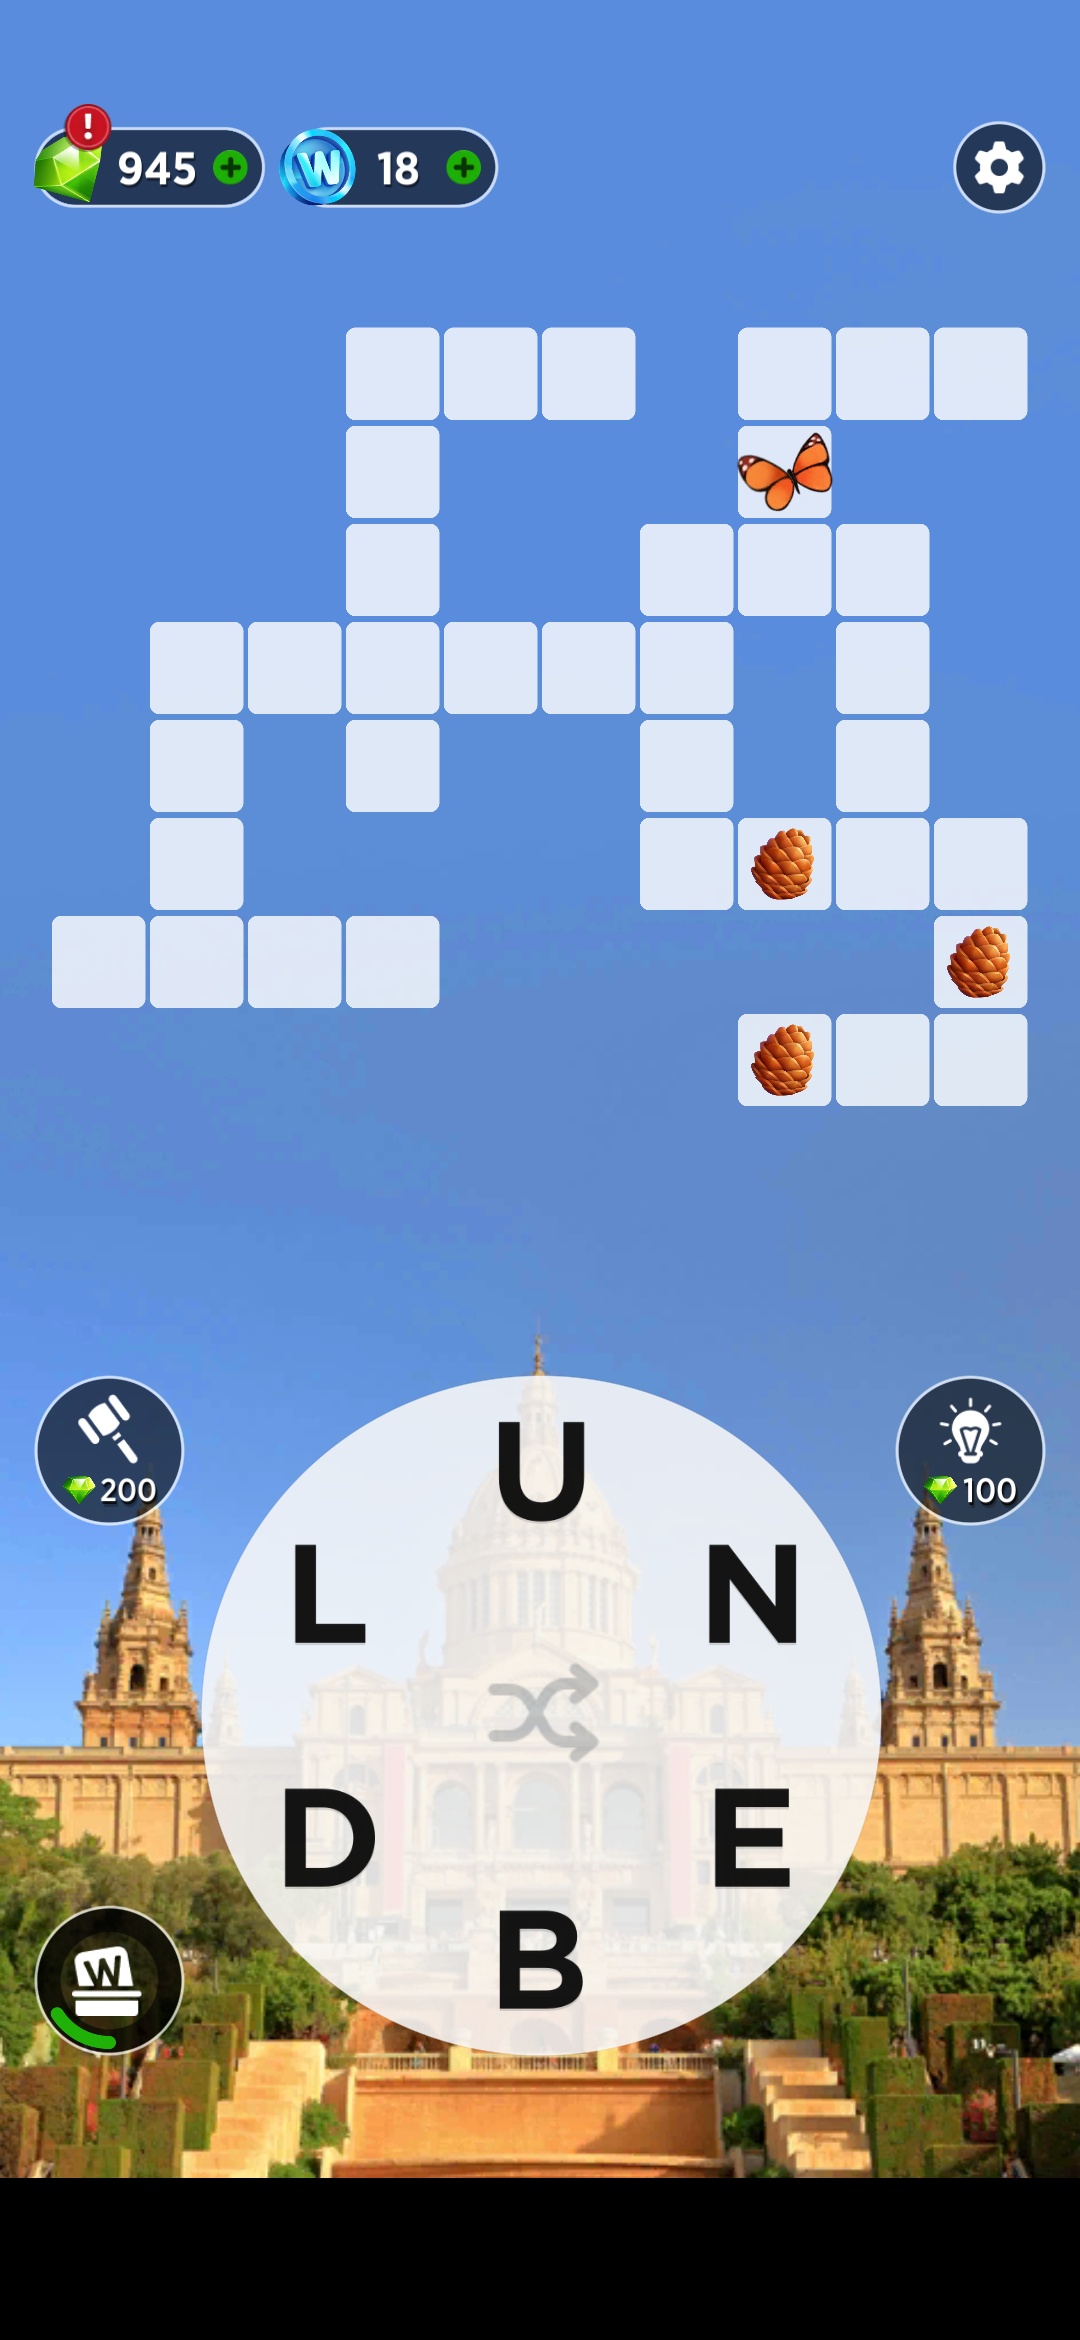
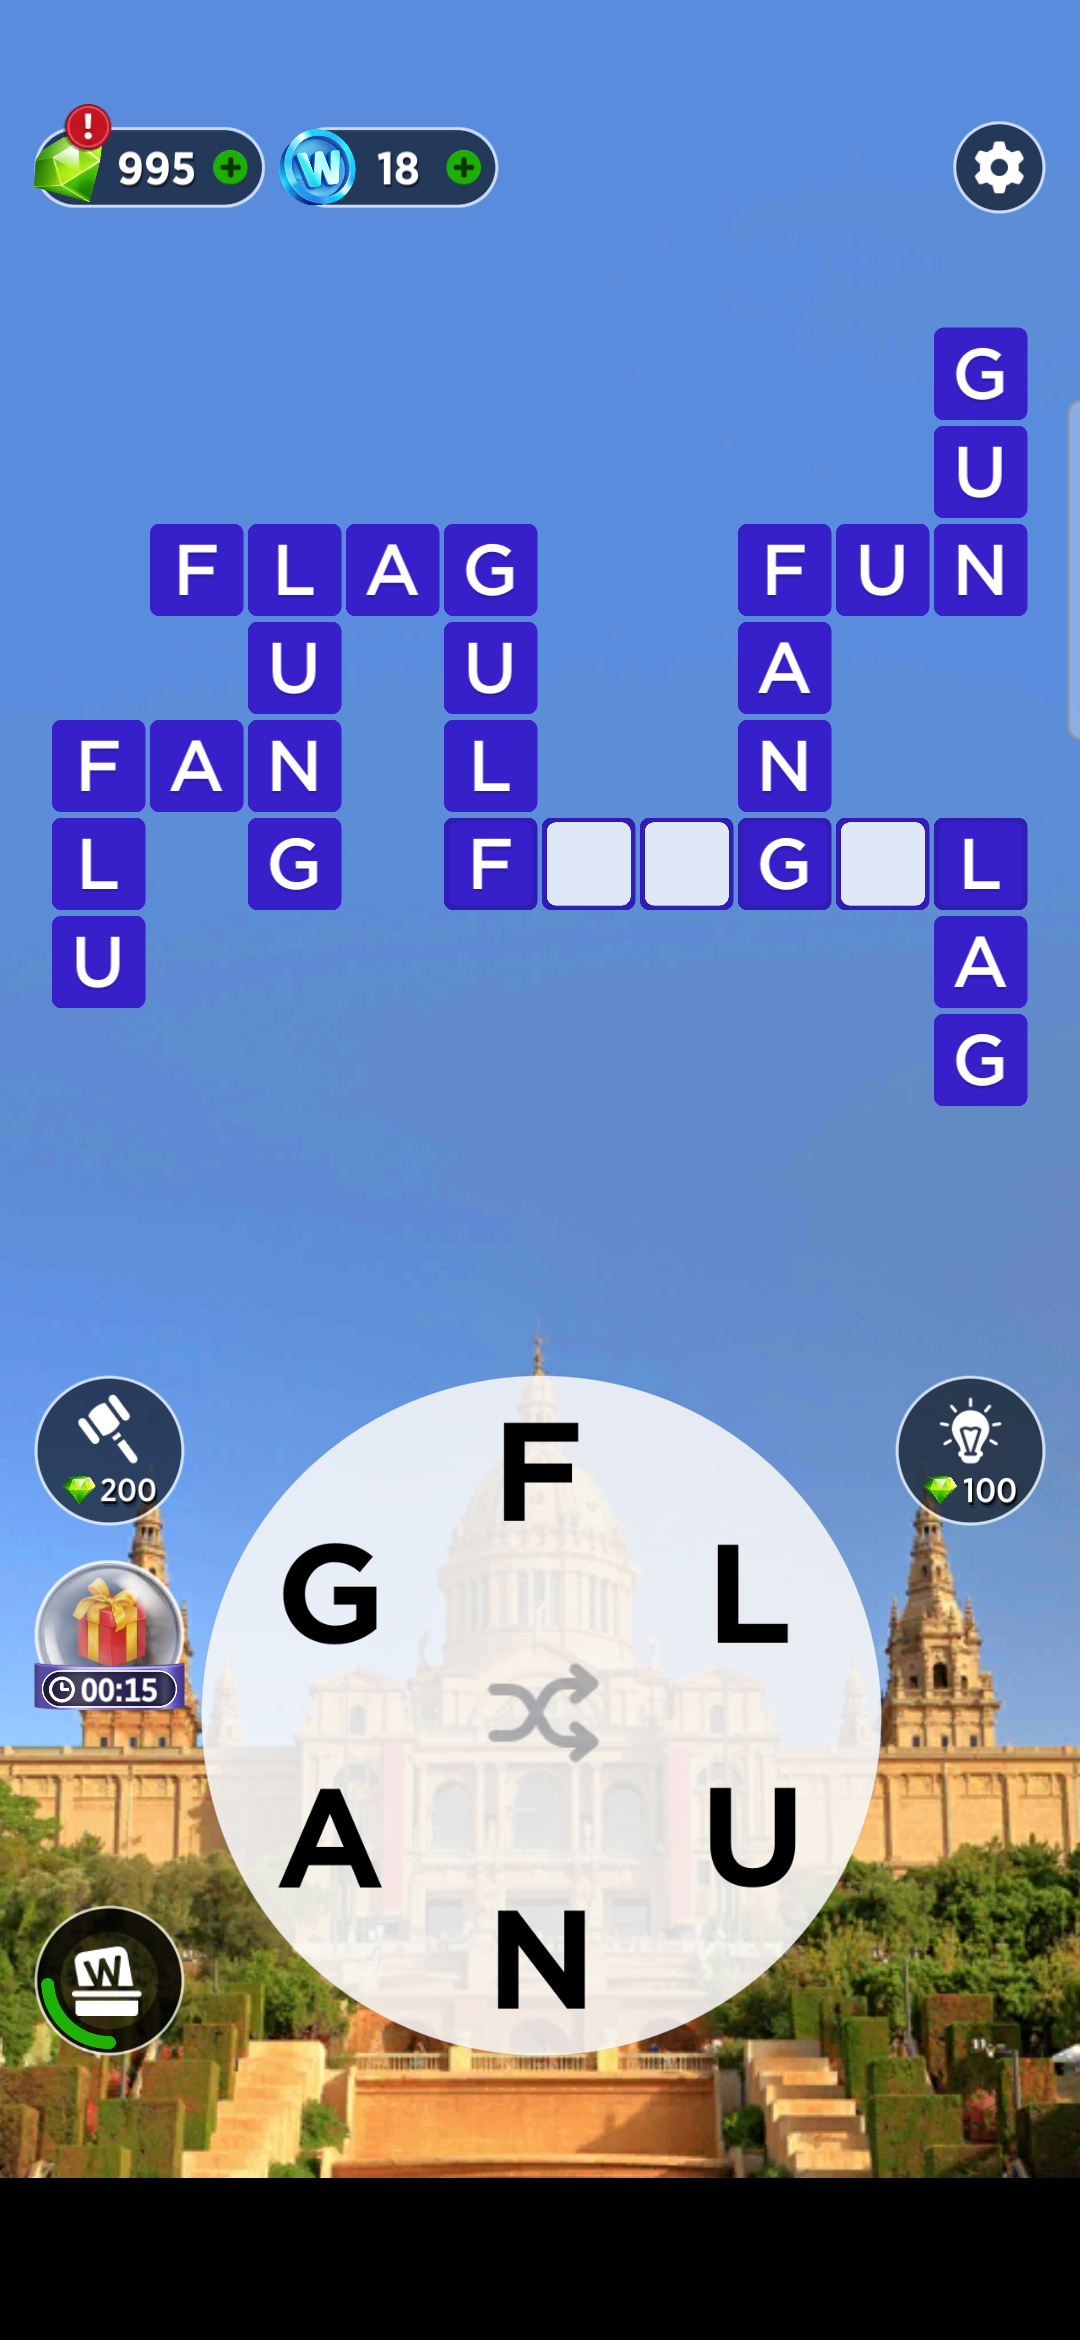
added GPT-3.5 support to unscramble words. it is slow and inaccurate in most cases.

diff --git a/gpt.py b/gpt.py
@@ -1,0 +1,36 @@
+import os
+from dotenv import load_dotenv
+from openai import OpenAI
+
+
+class GPT:
+    def __init__(self):
+        load_dotenv()
+        self.api_key = os.getenv("OPENAI_API_KEY")
+
+    def find_anagrams(self, letters) -> list[str]:
+        client = OpenAI(api_key=self.api_key)
+
+        prompt = f"""\
+        Find 100 different anagrams that are valid English words from the letters \"{letters}\".
+        Only write the valid anagrams without additional text or notes.
+        Seperate your answers by newlines only.
+        Write your answers in caps.
+        Only include answers which have more than 3 letters.
+        """
+        # Each anagram must have at least 4 letters and at most 6 letters.
+        # Do not repeat the same anagrams in your answer!
+        print("\nSENDING PROMPT:\n" + prompt + "\n")
+
+        chat_completion = client.chat.completions.create(
+            messages=[
+                {
+                    "role": "user",
+                    "content": prompt,
+                }
+            ],
+            model="gpt-3.5-turbo",
+        )
+
+        gpt_answer = chat_completion.choices[0].message.content
+        return list(set(gpt_answer.split("\n"))) # remove duplicates

diff --git a/movement.py b/movement.py
@@ -5,15 +5,15 @@ def guess_word(letter_cords: dict[tuple, str], word: str, device):
     coordinate_sequence = []
     for char in word:
         for key in letter_cords.keys():
-            if char == letter_cords[key]:
+            if char.lower() == letter_cords[key].lower():
                 print(char, "adding", key)
                 coordinate_sequence.append(key)
-                letter_cords[key] = None # mark coordinate in letter_cords as used
+                letter_cords[key] = '' # mark coordinate in letter_cords as used
                 break
 
-    if len(coordinate_sequence) < 2:
-        print("words of length 0 or 1 are not possible!")
-        quit()
+    if len(coordinate_sequence) <= 2:
+        print("words of length 0, 1 or 2 are not possible!")
+        return
 
     initial_x, initial_y = coordinate_sequence[0]
     final_x, final_y = coordinate_sequence[-1]

diff --git a/app.py b/app.py
@@ -2,6 +2,8 @@ from ppadb.client import Client as AdbClient
 import movement
 from letter_detection import find_transformed_letters_cords
 from PIL import Image
+from gpt import GPT
+import time
 
 client = AdbClient()
 devices = client.devices()
@@ -17,6 +19,17 @@ with open("screen.png", "wb") as f:
     f.write(screencap)
 
 letters_cords = find_transformed_letters_cords("screen.png")
-print(letters_cords)
+print("letters_cords:", letters_cords)
 
-movement.guess_word(letters_cords, "RIPEC", device)
+letters = "".join(list(letters_cords.values()))
+
+gpt_api = GPT()
+anagrams = gpt_api.find_anagrams(letters)
+
+print("got anagarms:", anagrams)
+print("from letters:", letters)
+
+for anagram in anagrams:
+    print("trying:", anagram)
+    movement.guess_word(dict(letters_cords), anagram, device)
+    time.sleep(0.5)

diff --git a/letter_detection.py b/letter_detection.py
@@ -40,7 +40,6 @@ def find_letters_cords(image_filename):
 
             custom_config = r'-l eng --psm 10'
             ocr_result = pytesseract.image_to_string(segment, config=custom_config)
-            print(f"detected letter: {ocr_result}")
 
             if len(ocr_result) == 0:
                 continue
@@ -50,6 +49,10 @@ def find_letters_cords(image_filename):
             # because of their font, OCR detects 'I' as '|' (vertical line)
             if ocr_char == '|':
                 ocr_char = 'I'
+            if ocr_char == '-':
+                ocr_char = 'F'
+
+            print(f"detected letter: {ocr_char}")
 
             if ocr_char in string.ascii_letters:
                 relative_cord = (x, y)
